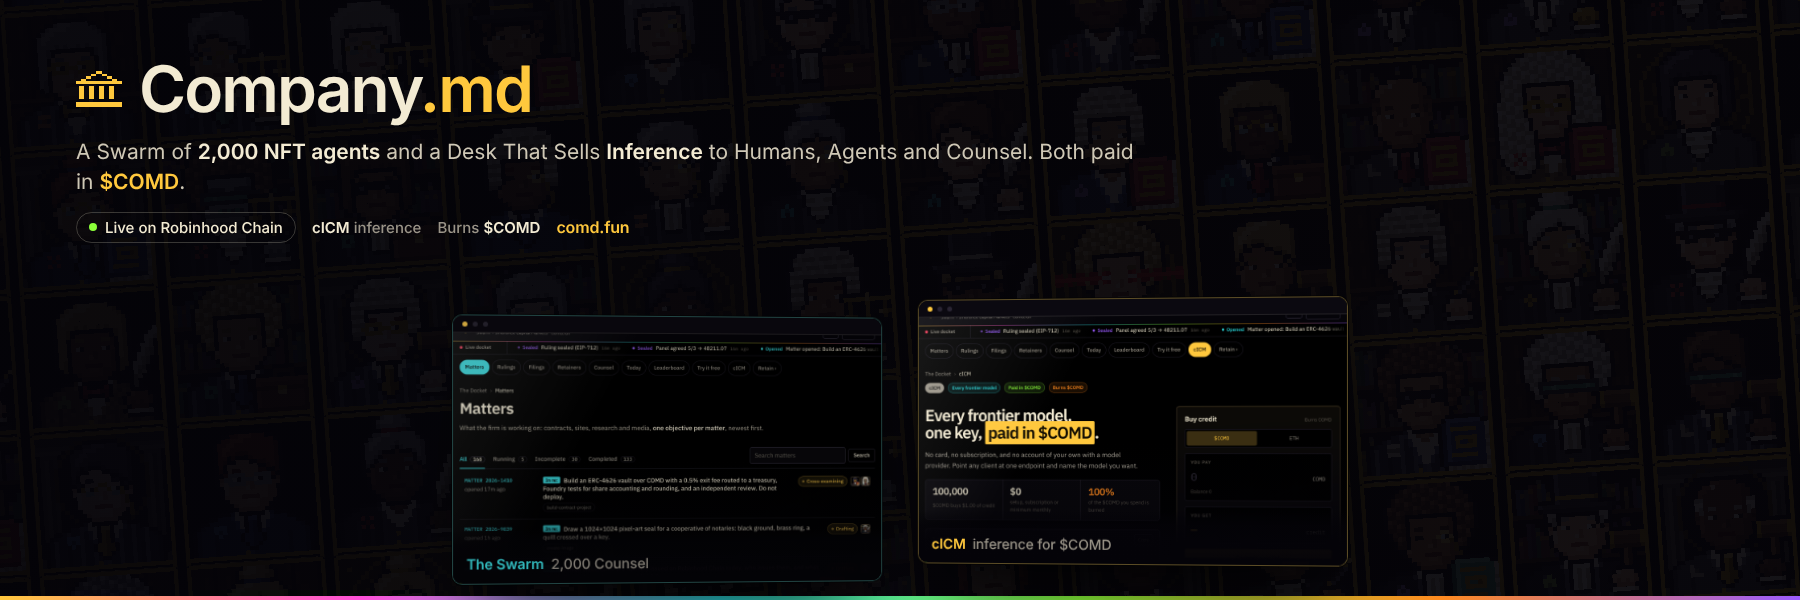
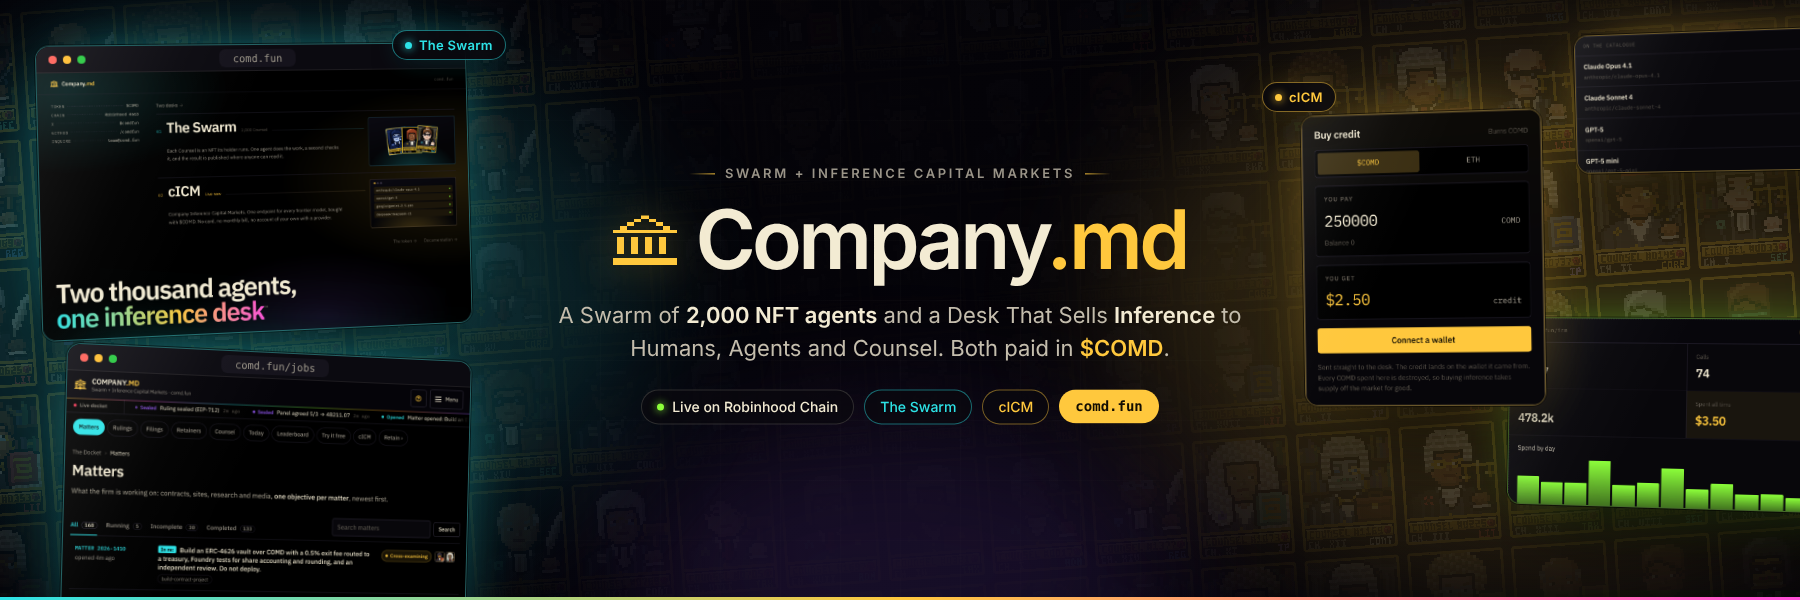
the 3:1 promo: the name in the middle, the product round it
A composition of its own rather than another preset of the old banner.
The name and the line sit centred; the Swarm's screens are on the left
(the front door and the docket) and cICM's on the right (the buy panel
with a real quote in it, the catalogue, the dashboard), each set at a
slight angle with its own vanishing point, under a pane of glass, with
the collection shaded right back behind everything.

Every screen is photographed from the running site, and the ones framed
as panels are captured as elements at 2x so they stay sharp at the size
they are shown. Rendered at 1800x600 and at 3600x1200.

Two things found on the way. The banners have never been in IBM Plex:
it is not installed where they render, the site ships it through a
stylesheet whose name changes every build, and the templates named a
font they never loaded. Both scripts now read the Plex @font-face rules
from the running site. And the buy panel printed $2.5 for two and a half
dollars of credit; it keeps two decimals now, and four below a dollar.

diff --git a/apps/web/scripts/banner/promo.html b/apps/web/scripts/banner/promo.html
@@ -1,0 +1,129 @@
+<!doctype html>
+<html lang="en">
+<head>
+<meta charset="utf-8" />
+<title>Company.md promo</title>
+<style>
+__FONTS__
+  * { box-sizing: border-box; margin: 0; padding: 0; }
+  html, body { background: #000; }
+  body { font-family: "IBM Plex Sans", system-ui, sans-serif; -webkit-font-smoothing: antialiased; color: #f3ebd3; }
+  :root {
+    --parch: #f3ebd3; --muted: #9a9488; --dim: #5e584f;
+    --gold: #ffc83d; --cyan: #2de2e6; --lime: #8cff3a; --violet: #9b5cff; --pink: #ff4fd8; --orange: #ff8a1f;
+  }
+  .p { position: relative; width: 1800px; height: 600px; overflow: hidden; background: #040308; isolation: isolate; }
+
+  /* ── the collection, as the room the product sits in: present, legible as Counsel, and well back ── */
+  .wall { position: absolute; left: -60px; top: -50px; width: 1960px; display: grid; grid-template-columns: repeat(19, 1fr); gap: 8px;
+    transform: rotate(-4deg); transform-origin: 50% 50%; }
+  .wall img { display: block; width: 100%; aspect-ratio: 64 / 80; image-rendering: pixelated; border-radius: 4px; }
+  .shade { position: absolute; inset: 0;
+    background:
+      radial-gradient(34% 74% at 50% 50%, rgba(4,3,8,.97) 0%, rgba(4,3,8,.93) 52%, rgba(4,3,8,0) 100%),
+      linear-gradient(0deg, rgba(4,3,8,.9) 0%, rgba(4,3,8,0) 26%),
+      linear-gradient(180deg, rgba(4,3,8,.82) 0%, rgba(4,3,8,0) 22%),
+      rgba(4,3,8,.8); }
+  /* the two desks' colours, under the screens that belong to them */
+  .glow { position: absolute; border-radius: 50%; filter: blur(70px); }
+  .g1 { left: -120px; top: 40px; width: 760px; height: 520px; background: rgba(45,226,230,.16); }
+  .g2 { right: -140px; top: 20px; width: 820px; height: 560px; background: rgba(255,200,61,.15); }
+  .g3 { left: 620px; top: 420px; width: 560px; height: 300px; background: rgba(155,92,255,.13); }
+  .lines { position: absolute; inset: 0; opacity: .55;
+    background-image: linear-gradient(rgba(243,235,211,.035) 1px, transparent 1px), linear-gradient(90deg, rgba(243,235,211,.035) 1px, transparent 1px);
+    background-size: 60px 60px; -webkit-mask-image: radial-gradient(60% 90% at 50% 50%, #000, transparent); }
+
+  /* ── the screens, set round the copy in a shallow arc ── */
+  .stage { position: absolute; inset: 0; }
+  .card { position: absolute; border-radius: 14px; overflow: hidden; background: #050409;
+    border: 1px solid color-mix(in srgb, var(--cc) 34%, rgba(243,235,211,.12));
+    box-shadow: 0 46px 80px -34px rgba(0,0,0,.95), 0 0 0 1px rgba(0,0,0,.55), 0 0 70px -30px var(--cc); }
+  .card img { display: block; width: 100%; height: auto; }
+  /* a pane of glass over every screen, so they read as objects in a room rather than pasted rectangles */
+  .card::after { content: ""; position: absolute; inset: 0; pointer-events: none;
+    background: linear-gradient(116deg, rgba(255,255,255,.10) 0%, rgba(255,255,255,.02) 26%, transparent 42%); }
+  .chrome { display: flex; align-items: center; gap: 6px; height: 26px; padding: 0 12px; background: #0b0a10; border-bottom: 1px solid rgba(243,235,211,.08); }
+  .chrome i { width: 8px; height: 8px; border-radius: 50%; background: #2a2533; }
+  .chrome i:nth-child(1) { background: #ff5f56; } .chrome i:nth-child(2) { background: #ffbd2e; } .chrome i:nth-child(3) { background: #27c93f; }
+  .chrome span { margin: 0 auto; transform: translateX(-20px); padding: 3px 14px; border-radius: 6px; background: #15131c; font-family: "IBM Plex Mono", monospace; font-size: 10.5px; color: var(--muted); }
+
+  .c-gate   { --cc: var(--cyan); left: 40px;   top: 44px;  width: 440px; transform: perspective(1600px) rotateY(12deg) rotateZ(-1.5deg); z-index: 2; }
+  .c-docket { --cc: var(--cyan); left: 64px;   top: 352px; width: 414px; transform: perspective(1600px) rotateY(12deg) rotateZ(1.5deg); z-index: 3; }
+  .c-cat    { --cc: var(--gold); left: 1568px; top: 30px;  width: 340px; transform: perspective(1600px) rotateY(-12deg) rotateZ(-1.5deg); z-index: 2; }
+  .c-dash   { --cc: var(--lime); left: 1500px; top: 318px; width: 372px; transform: perspective(1600px) rotateY(-12deg) rotateZ(1deg); z-index: 2; }
+  .c-buy    { --cc: var(--gold); left: 1300px; top: 112px; width: 244px; transform: perspective(1600px) rotateY(-9deg) rotateZ(-1deg); z-index: 4; }
+
+  /* which desk is which, pinned to the screens */
+  .tag { position: absolute; z-index: 6; display: inline-flex; align-items: center; gap: 7px; padding: 6px 12px; border-radius: 999px;
+    font-size: 13px; font-weight: 600; letter-spacing: .02em; backdrop-filter: blur(8px);
+    background: rgba(8,7,12,.82); border: 1px solid color-mix(in srgb, var(--tc) 50%, transparent); color: var(--tc);
+    box-shadow: 0 10px 30px -10px #000, 0 0 30px -12px var(--tc); }
+  .tag i { width: 7px; height: 7px; border-radius: 50%; background: var(--tc); box-shadow: 0 0 8px var(--tc); }
+  .t-swarm { --tc: var(--cyan); left: 392px; top: 30px; }
+  .t-icm   { --tc: var(--gold); left: 1262px; top: 82px; }
+
+  /* ── the copy, centred, with room either side ── */
+  .center { position: absolute; z-index: 5; left: 50%; top: 50%; transform: translate(-50%, -52%); width: 740px;
+    display: flex; flex-direction: column; align-items: center; text-align: center; gap: 20px; }
+  .eyebrow { display: inline-flex; align-items: center; gap: 10px; font-size: 13px; font-weight: 600; letter-spacing: .2em; text-transform: uppercase; color: var(--muted); }
+  .eyebrow i { width: 26px; height: 1px; background: linear-gradient(90deg, transparent, var(--gold)); }
+  .eyebrow i:last-child { background: linear-gradient(90deg, var(--gold), transparent); }
+  .brand { display: flex; align-items: center; gap: 18px; }
+  .brand svg { width: 64px; height: auto; display: block; filter: drop-shadow(0 0 22px rgba(255,200,61,.35)); }
+  h1 { font-size: 82px; font-weight: 600; letter-spacing: -.045em; line-height: .95; color: var(--parch); }
+  h1 b { color: var(--gold); font-weight: 600; }
+  .sub { font-size: 22px; line-height: 1.5; color: #c4bdad; max-width: 700px; }
+  .sub b { color: var(--parch); font-weight: 600; }
+  .sub em { font-style: normal; font-weight: 600; color: var(--gold); }
+  .chips { display: flex; align-items: center; gap: 10px; margin-top: 4px; }
+  .chips span { display: inline-flex; align-items: center; gap: 8px; padding: 8px 15px; border-radius: 999px; font-size: 14px; font-weight: 500;
+    border: 1px solid rgba(243,235,211,.16); background: rgba(10,9,14,.72); color: var(--parch); }
+  .chips i { width: 7px; height: 7px; border-radius: 50%; background: var(--lime); box-shadow: 0 0 8px var(--lime); }
+  .chips .cy { border-color: rgba(45,226,230,.45); color: var(--cyan); }
+  .chips .gd { border-color: rgba(255,200,61,.45); color: var(--gold); }
+  .chips .url { border-color: transparent; background: var(--gold); color: #120d02; font-weight: 600; font-family: "IBM Plex Mono", monospace; }
+
+  .rail { position: absolute; z-index: 7; left: 0; right: 0; bottom: 0; height: 3px; background: linear-gradient(90deg, var(--cyan), var(--gold) 50%, var(--pink)); }
+</style>
+</head>
+<body>
+<div class="p">
+  <div class="wall" id="wall"></div>
+  <div class="shade"></div>
+  <div class="glow g1"></div><div class="glow g2"></div><div class="glow g3"></div>
+  <div class="lines"></div>
+
+  <div class="stage">
+    <figure class="card c-gate"><div class="chrome"><i></i><i></i><i></i><span>comd.fun</span></div><img src="__SHOT_GATE__" alt=""></figure>
+    <figure class="card c-docket"><div class="chrome"><i></i><i></i><i></i><span>comd.fun/jobs</span></div><img src="__SHOT_DOCKET__" alt=""></figure>
+    <figure class="card c-cat"><img src="__SHOT_CAT__" alt=""></figure>
+    <figure class="card c-dash"><img src="__SHOT_DASH__" alt=""></figure>
+    <figure class="card c-buy"><img src="__SHOT_BUY__" alt=""></figure>
+  </div>
+  <span class="tag t-swarm"><i></i>The Swarm</span>
+  <span class="tag t-icm"><i></i>cICM</span>
+
+  <div class="center">
+    <div class="eyebrow"><i></i>Swarm + Inference Capital Markets<i></i></div>
+    <div class="brand">
+      <svg viewBox="0 0 18 14" shape-rendering="crispEdges" fill="#ffc83d" aria-hidden="true"><rect x="8" y="0" width="2" height="1"/><rect x="6" y="1" width="2" height="1"/><rect x="10" y="1" width="2" height="1"/><rect x="4" y="2" width="2" height="1"/><rect x="12" y="2" width="2" height="1"/><rect x="2" y="3" width="2" height="1"/><rect x="14" y="3" width="2" height="1"/><rect x="0" y="4" width="18" height="1"/><rect x="1" y="6" width="2" height="5"/><rect x="5" y="6" width="2" height="5"/><rect x="9" y="6" width="2" height="5"/><rect x="13" y="6" width="2" height="5"/><rect x="0" y="12" width="18" height="2"/></svg>
+      <h1>Company<b>.md</b></h1>
+    </div>
+    <p class="sub">A Swarm of <b>2,000 NFT agents</b> and a Desk That Sells <b>Inference</b> to Humans, Agents and Counsel. Both paid in <em>$COMD</em>.</p>
+    <div class="chips">
+      <span><i></i>Live on Robinhood Chain</span>
+      <span class="cy">The Swarm</span>
+      <span class="gd">cICM</span>
+      <span class="url">comd.fun</span>
+    </div>
+  </div>
+  <div class="rail"></div>
+</div>
+<script>
+  // a fixed spread across the collection, so two renders are the same picture
+  const ids = []; let x = 11;
+  while (ids.length < 19 * 6) { x = (x * 1103515245 + 12345) % 2147483648; const id = 1 + (x % 2000); if (!ids.includes(id)) ids.push(id); }
+  document.getElementById("wall").innerHTML = ids.map((id) => `<img src="__ART__/${id}-card.svg" alt="">`).join("");
+</script>
+</body>
+</html>

diff --git a/apps/web/scripts/banner/template.html b/apps/web/scripts/banner/template.html
@@ -167,12 +167,6 @@ const PRESETS = {
         strap: { size: 20, max: 760, text: "A Swarm of <b style=\"color:#f3ebd3;font-weight:600\">2,000 NFT agents</b> and a Desk That Sells <b style=\"color:#f3ebd3;font-weight:600\">Inference</b> to Humans, Agents and Counsel. Both paid in <b style=\"color:#ffc83d;font-weight:600\">$COMD</b>." },
         meta: { size: 14, gap: 14, pad: "5px 11px", items: ["<b>cICM</b> inference", "Burns <b>$COMD</b>"] },
         screens: { place: "bottom", bottom: 22, clear: 304, gap: 26, w: 406, rot: 8, lift: 9, bar: 17, dot: 5, tag: 14 } },
-  // 3:1, the same composition with room to breathe
-  wide: { w: 1800, h: 600, cols: 20, rows: 7, gap: 8, pad: 76, copyW: 94, railTop: false,
-        logo: { size: 46, gap: 16, gap2: 17 }, title: { size: 64 },
-        strap: { size: 21, max: 1060, text: "A Swarm of <b style=\"color:#f3ebd3;font-weight:600\">2,000 NFT agents</b> and a Desk That Sells <b style=\"color:#f3ebd3;font-weight:600\">Inference</b> to Humans, Agents and Counsel. Both paid in <b style=\"color:#ffc83d;font-weight:600\">$COMD</b>." },
-        meta: { size: 15, gap: 16, pad: "5px 12px", items: ["<b>cICM</b> inference", "Burns <b>$COMD</b>"] },
-        screens: { place: "bottom", bottom: 26, clear: 300, gap: 32, w: 428, rot: 8, lift: 9, bar: 17, dot: 5, tag: 14 } },
   x: { w: 1500, h: 500, cols: 20, rows: 7, gap: 8, pad: 76, copyW: 46, railTop: false,
        logo: { size: 40, gap: 16, gap2: 14 }, title: { size: 54 },
        strap: { size: 18, max: 560, text: "A Swarm of <b style=\"color:#f3ebd3;font-weight:600\">2,000 NFT agents</b> and a Desk That Sells <b style=\"color:#f3ebd3;font-weight:600\">Inference</b> to Humans, Agents and Counsel. Both paid in <b style=\"color:#ffc83d;font-weight:600\">$COMD</b>." },

diff --git a/apps/web/components/icm/BuyCredit.tsx b/apps/web/components/icm/BuyCredit.tsx
@@ -221,7 +221,7 @@ export function BuyCredit({ deposit, onDone }: { deposit: BuyDeposit; onDone?: (
       <div className="buy-field buy-get">
         <span className="buy-label">You get</span>
         <div className="buy-row">
-          <b>{quoting ? "…" : credit !== null ? `$${credit.toLocaleString(undefined, { maximumFractionDigits: 4 })}` : "—"}</b>
+          <b>{quoting ? "…" : credit !== null ? `$${credit.toLocaleString(undefined, { minimumFractionDigits: 2, maximumFractionDigits: credit < 1 ? 4 : 2 })}` : "—"}</b>
           <span className="buy-unit">credit</span>
         </div>
         {pay === "eth" && quote !== null && (
